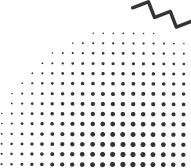
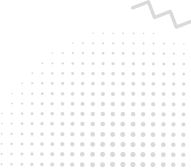
init

diff --git a/src/components/Ping.css b/src/components/Ping.css
@@ -412,7 +412,7 @@ h4.header-title {
 }
 /* this code is for mobile responsive */
 
-body::before{
+/* body::before{
     position: absolute;
     content: "";
     bottom: 0;
@@ -424,6 +424,15 @@ body::before{
     display: block;
     height: 191px;
     width: 168px;
+} */
+
+#root{
+    background-image: url("/public/bottom-bg.png");
+    background-position: bottom right;
+    background-repeat: no-repeat;
+    background-size: 20%;
+    padding-bottom: 60px;
+    
 }
 
 /* ============================================
